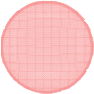
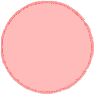
pixel spiegelung korrekt, kollision muss noch geändert werden; shield jetzt wirklich transparent ohne muster

diff --git a/GameMain.java b/GameMain.java
@@ -5,6 +5,8 @@ import javax.microedition.lcdui.game.GameCanvas;
 class GameMain extends GameCanvas {
 
     private int gameState;
+    private int statuslinks = 0;
+    private int statusrechts = 0;
     private Timer mainTimer;
     private Pixel pixel;
     private Background2D b2d;
@@ -14,6 +16,7 @@ class GameMain extends GameCanvas {
     private int score = 0;
     public Highscore highscore;
     private MainMIDlet midlet;
+
     
     private final int FPS = 40;
     private final int GS_GAMEOVER = 3;
@@ -81,17 +84,37 @@ class GameMain extends GameCanvas {
         double time  = 15*ms/1000.d;
         int keycode = getKeyStates();
         int leftright = 0;
-        if ((keycode & LEFT_PRESSED) != 0)
+        if ((keycode & LEFT_PRESSED) != 0) {
             leftright = -1;
-        if ((keycode & RIGHT_PRESSED) != 0)
+            pixel.setTransform(2); // bei Pfeil-Nach-Links-Taste wird der Pixel nach links gespiegelt
+            if(leftright == -1 && statuslinks == 0) { // wenn links-gedrückt und nicht schon links
+             pixel.setPosX(pixel.getPosX() + pixel.getWidth()); //rechtsverschiebung, da sonst nicht korrekt
+            statuslinks = 1;
+            statusrechts = 0;}
+            }
+
+            
+        if ((keycode & RIGHT_PRESSED) != 0){
             leftright = 1;
+           
+            pixel.setTransform(0);
+            if(leftright == 1 && statusrechts == 0) {
+            pixel.setPosX(pixel.getPosX() - pixel.getWidth());
+            statusrechts = 1;
+            statuslinks = 0;
+            }
+        }
+
         pixel.accelerate(leftright, time);
+        
         pixel.resetImage();
+
         pixel.move(level.visiblePlats, level.items, time);
         level.move(time);
         arena.move(time);
         arena.monsterProjectileCollision();
         //gameover weil mit monster kollidiert
+
         if (pixel.monsterCollision(arena.monsters)) {
             SoundManager.deathm();
             gameOver();

diff --git a/Pixel.java b/Pixel.java
@@ -19,6 +19,7 @@ public class Pixel extends GameObject {
         shotOriginY = 0;
         defineReferencePixel(0, Tools.pixelImages[1].getHeight()-1);
         speedY = JUMPSPEED*2.1;
+        
     }
     
     public void accelerate(int leftright, double time) {
@@ -28,9 +29,13 @@ public class Pixel extends GameObject {
                 speedX = 0;
             else
                 speedX -= time * ACCELERATION * 2 * ((speedX < 0) ? -1 : 1);
+               
         }
         else if (leftright != 0) {
+           
+            
             if(speedX * leftright < 0)
+                
                 speedX += leftright * time * ACCELERATION;
             speedX += leftright * time * ACCELERATION;
             if (speedX > SPEEDLIMIT)

diff --git a/GameObject.java b/GameObject.java
@@ -11,8 +11,9 @@ public abstract class GameObject extends Sprite {
 
     public GameObject(Image image, double x, double y) {
         super(image);
-        posX = x; 
+        posX = x;
         posY = y;
+       
         setRefPixelPosition((int) posX, (int) posY);
     }
     
@@ -26,6 +27,9 @@ public abstract class GameObject extends Sprite {
     }
     public double getPosX(){
         return posX;
+    }
+    public void setPosX(double x) {
+        posX = x;
     }
     
     public boolean isOnScreen() {
